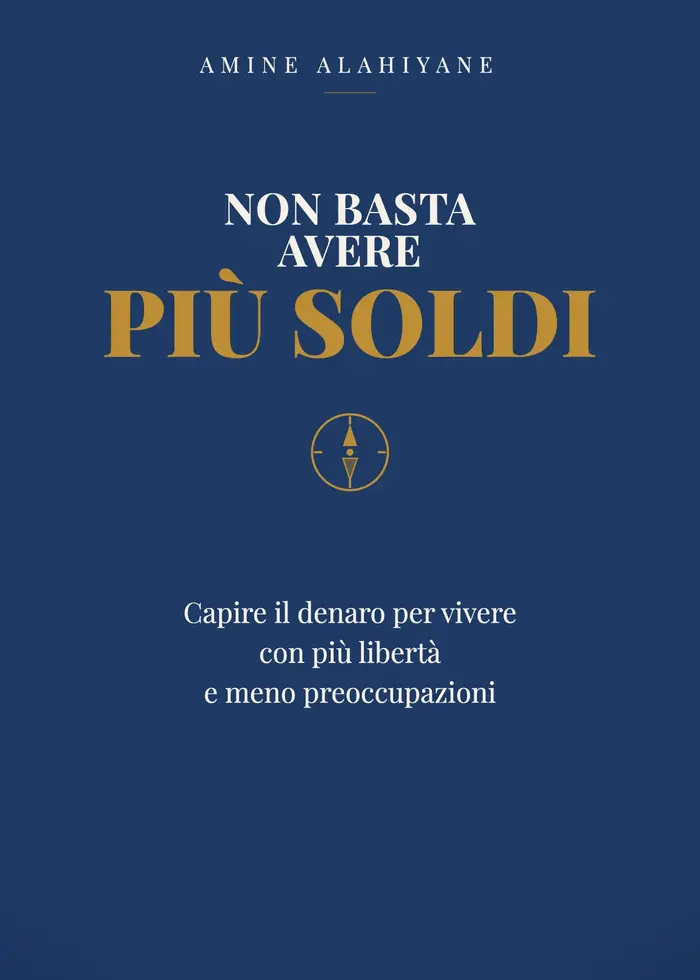
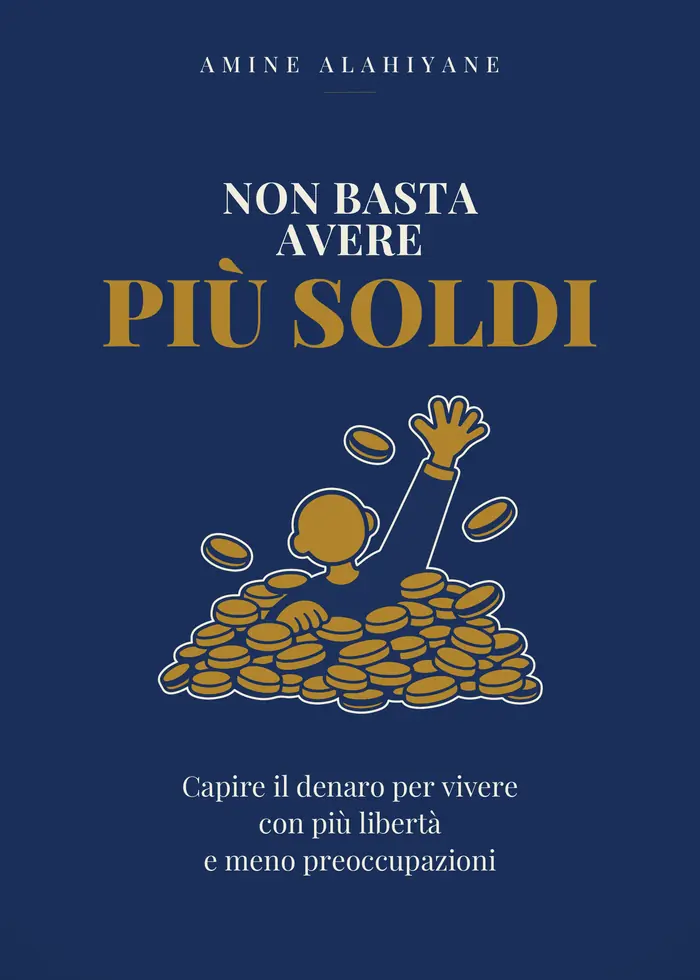
/regalo: nuova copertina del libro nel mockup e nell'anteprima social
- libro-copertina.webp ritagliata dal fronte della copertina definitiva
- Retro del libro 3D allineato al nuovo blu della copertina
- Immagine di condivisione rigenerata con il nuovo mockup e rinominata
  (og-starter-kit-v3.jpg) così WhatsApp non mostra la versione in cache

Claude-Session: https://claude.ai/code/session_01783g4o9EZWzRbJNuFDTzSU

diff --git a/src/app/regalo/page.tsx b/src/app/regalo/page.tsx
@@ -32,7 +32,7 @@ export const metadata: Metadata = {
       "Il libro «Non basta avere più soldi», una guida pratica e un articolo sulle pensioni del Dott. Amine Alahiyane, CFP®. Gratis, a casa tua.",
     images: [
       {
-        url: "/regalo/og-starter-kit-v2.jpg",
+        url: "/regalo/og-starter-kit-v3.jpg",
         width: 1200,
         height: 630,
         alt: "Lo Starter Kit: busta con il libro «Non basta avere più soldi», la guida e l'articolo sulle pensioni",
@@ -43,7 +43,7 @@ export const metadata: Metadata = {
     card: "summary_large_image",
     title: "Un regalo per te: il tuo Starter Kit",
     description: "Il libro, la guida e l'articolo sulle pensioni del Dott. Amine Alahiyane, CFP®. Gratis, a casa tua.",
-    images: ["/regalo/og-starter-kit-v2.jpg"],
+    images: ["/regalo/og-starter-kit-v3.jpg"],
   },
 };
 
@@ -117,7 +117,7 @@ function Book3D({ alt = "", priority = false }: { alt?: string; priority?: boole
         {/* Pagine viste dall'alto */}
         <div className="absolute left-[1%] right-[1.2%] top-[calc(var(--d)/-2)] h-[var(--d)] [transform:rotateX(90deg)] bg-[repeating-linear-gradient(0deg,#f7f3ea_0px,#f7f3ea_1px,#ddd5c3_1px,#ddd5c3_2px)]" />
         {/* Retro di copertina */}
-        <div className="absolute inset-0 [transform:translateZ(calc(var(--d)/-2))] bg-[#1d3461] rounded-r-[3px]" />
+        <div className="absolute inset-0 [transform:translateZ(calc(var(--d)/-2))] bg-[#1a2f5a] rounded-r-[3px]" />
       </div>
     </div>
   );
